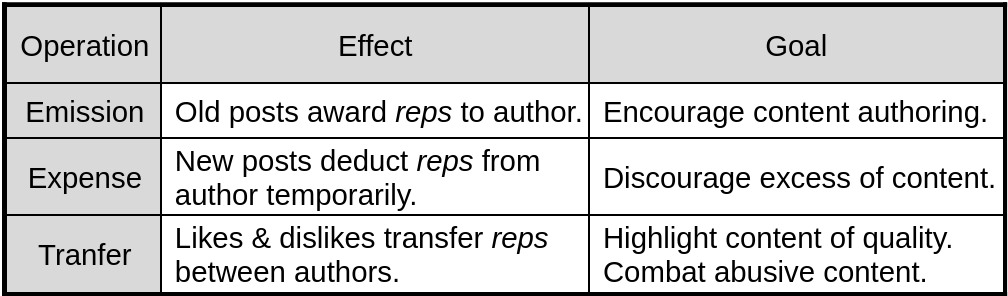
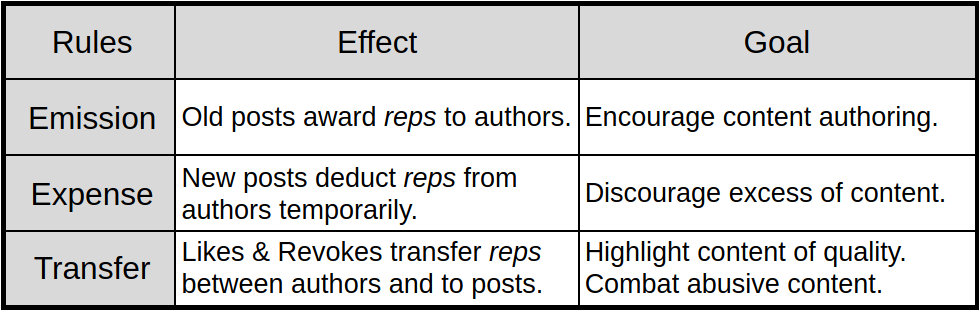
...

Changed region(s): [[0.0, 0.0, 1.0, 1.0], [0.3367, 0.0912, 0.4286, 0.2128], [0.7347, 0.0912, 0.8265, 0.2128]]

diff --git a/doc/reps.md b/doc/reps.md
@@ -1,5 +1,9 @@
 # Freechains: Reputation System
 
+<!--
+https://docs.google.com/spreadsheets/d/1K9vqrDHXvDQdqdGE7h-y1Bp_Phwt3CszXyGP962Wpsk/edit?gid=1850503300#gid=1850503300
+-->
+
 [
     [Rules](#rules)               |
     [Design Goals](#design-goals)
